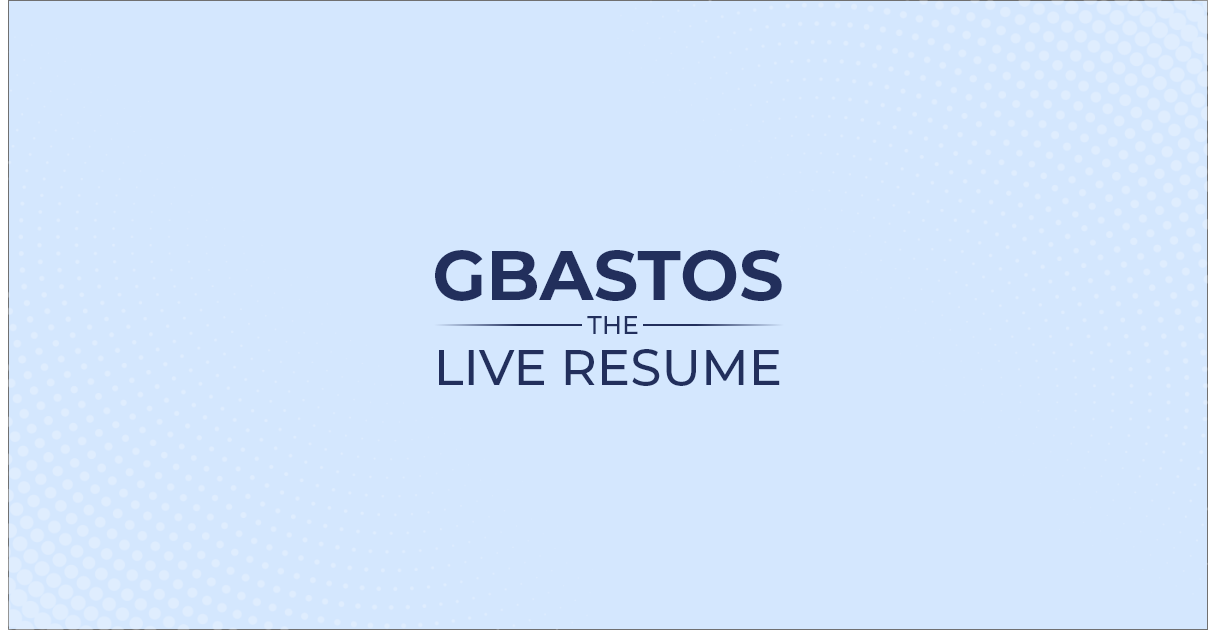
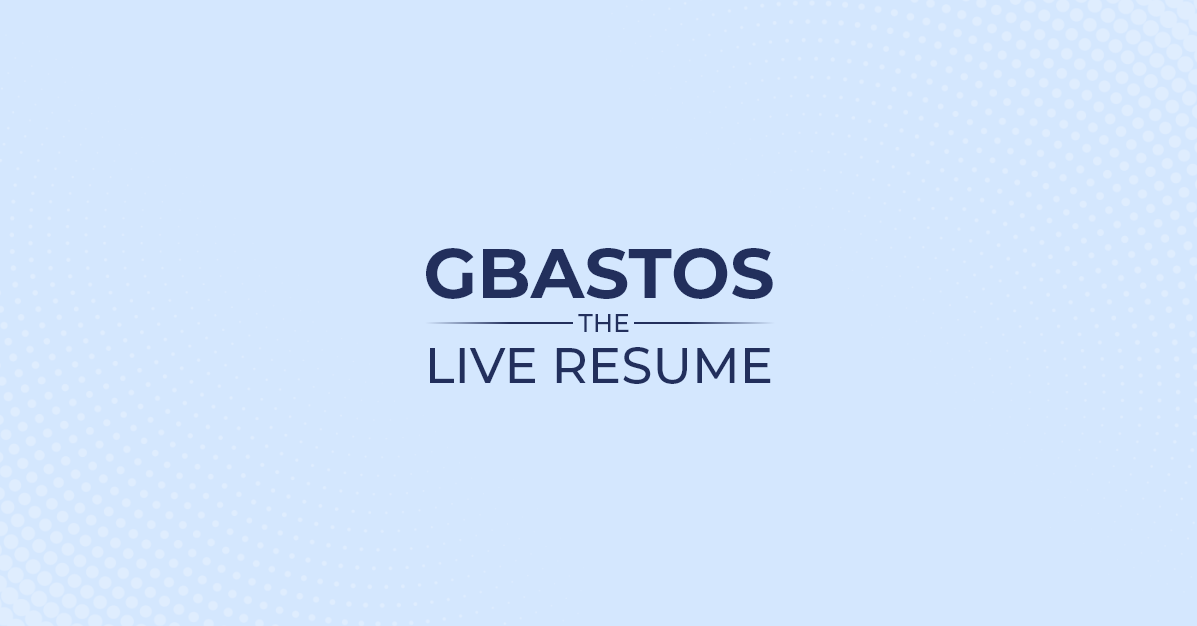
General Adjustments.
- Updated the 'og:image' file and href address.

Changed region(s): [[0.0, 0.0, 1.0, 1.0], [0.34, 0.3946, 0.6491, 0.607], [0.9891, 0.0, 1.0, 0.0304]]

diff --git a/src/index.html b/src/index.html
@@ -11,7 +11,7 @@
   <meta name="viewport" content="width=device-width, initial-scale=1">
   <meta name="description" content="Hello, I'm a Full-stack Web Developer with 10+ years of experience designing web and mobile projects. Find out more in my live-resume!">
   <meta property="og:title" content="Live Resume - Guilherme Borges Bastos">  
-  <meta property="og:image" content="./assets/og-image.png">
+  <meta property="og:image" content="https://guilhermeborgesbastos.com/en/assets/og-image.png">
 </head>
 <body>
   <app-root></app-root>
